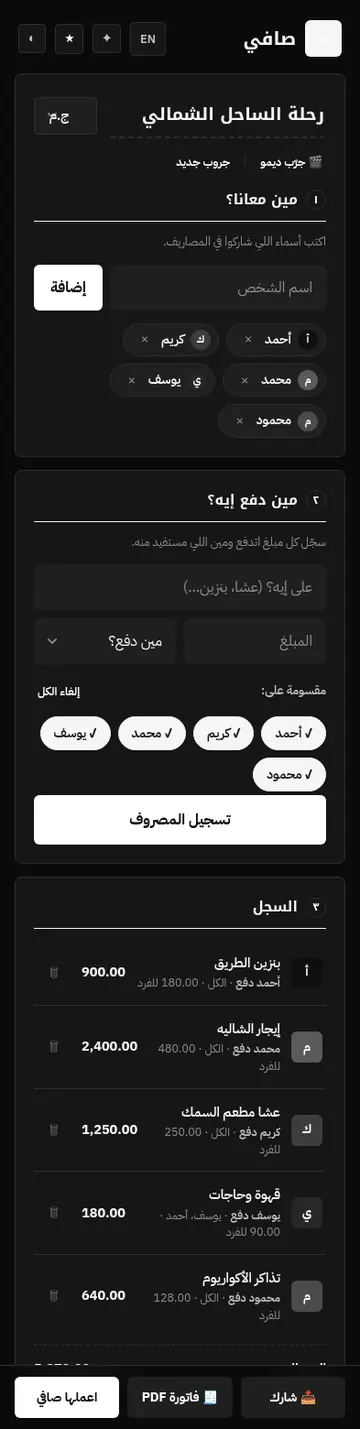
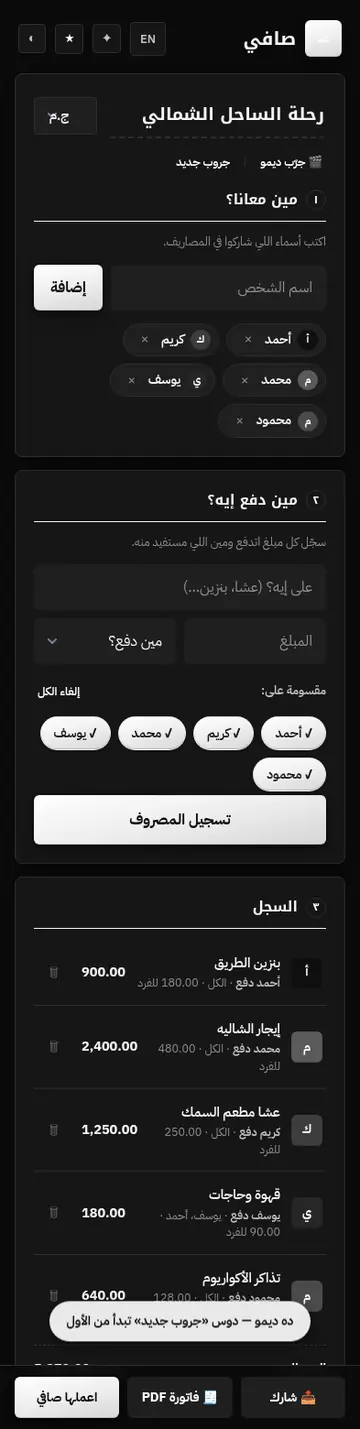
Give the عربي skin depth: gradient ink and soft shadows
A flat black rectangle reads as a hole punched in the page. Every large
ink fill — buttons, the logo tile, active split chips, the «عليه» pill —
now carries a subtle gradient plus a one-pixel top highlight, which is the
difference between a black box and a black surface. Cards get a soft
neutral shadow instead of none.

Both are tokens (--ink-grad, --ink-edge, --btn-shadow) and both invert in
dark mode, where the fills are white and the highlight moves to the bottom
edge so the implied light source stays overhead.

Contrast is unaffected: the lightest stop is #333333, so white on it is
still 12:1.

Changed region(s): [[0.0917, 0.8929, 0.8556, 1.0], [0.5194, 0.5234, 0.9167, 0.6158], [0.1222, 0.1847, 0.275, 0.2155]]

diff --git a/assets/css/skins/arabi.css b/assets/css/skins/arabi.css
@@ -44,9 +44,13 @@
   --display-weight:700;
   --display-spacing:0;
 
-  /* no shadows — depth comes from the hairline alone */
-  --shadow:none;
-  --shadow-lg:0 8px 28px -14px rgba(0,0,0,.45);
+  /* Depth without colour: a soft neutral shadow, and a gradient on the black
+     fills so a large area of ink reads as a surface rather than a hole. */
+  --shadow:0 1px 2px rgba(10,10,10,.05), 0 10px 24px -16px rgba(10,10,10,.35);
+  --shadow-lg:0 4px 10px rgba(10,10,10,.10), 0 26px 50px -24px rgba(10,10,10,.5);
+  --ink-grad:linear-gradient(168deg, #333333 0%, #141414 46%, #050505 100%);
+  --ink-edge:inset 0 1px 0 rgba(255,255,255,.16);
+  --btn-shadow:0 2px 5px rgba(10,10,10,.26), 0 10px 22px -12px rgba(10,10,10,.5);
 
   /* invoice — declared outside the dark blocks: paper is always light */
   --bill-paper:#FFFFFF; --bill-fill:#F4F4F4;
@@ -65,8 +69,11 @@
     --pos:#FFFFFF; --pos-w:#1F1F1F;
     --neg:#0A0A0A; --neg-w:#F5F5F5;
     --logo-a:#FFFFFF; --logo-b:#D8D8D8; --logo-c:#9A9A9A;
-    --shadow:none;
-    --shadow-lg:0 8px 28px -14px rgba(0,0,0,.8);
+    --shadow:0 1px 2px rgba(0,0,0,.5), 0 10px 24px -16px rgba(0,0,0,.8);
+    --shadow-lg:0 4px 12px rgba(0,0,0,.6), 0 26px 50px -24px rgba(0,0,0,.9);
+    --ink-grad:linear-gradient(168deg, #FFFFFF 0%, #EDEDED 52%, #D6D6D6 100%);
+    --ink-edge:inset 0 -1px 0 rgba(0,0,0,.14);
+    --btn-shadow:0 2px 6px rgba(0,0,0,.55), 0 12px 26px -14px rgba(0,0,0,.75);
   }
 }
 :root[data-skin="arabi"][data-theme="dark"]{
@@ -77,18 +84,40 @@
   --pos:#FFFFFF; --pos-w:#1F1F1F;
   --neg:#0A0A0A; --neg-w:#F5F5F5;
   --logo-a:#FFFFFF; --logo-b:#D8D8D8; --logo-c:#9A9A9A;
-  --shadow:none;
-  --shadow-lg:0 8px 28px -14px rgba(0,0,0,.8);
+  --shadow:0 1px 2px rgba(0,0,0,.5), 0 10px 24px -16px rgba(0,0,0,.8);
+  --shadow-lg:0 4px 12px rgba(0,0,0,.6), 0 26px 50px -24px rgba(0,0,0,.9);
+  --ink-grad:linear-gradient(168deg, #FFFFFF 0%, #EDEDED 52%, #D6D6D6 100%);
+  --ink-edge:inset 0 -1px 0 rgba(0,0,0,.14);
+  --btn-shadow:0 2px 6px rgba(0,0,0,.55), 0 12px 26px -14px rgba(0,0,0,.75);
 }
 
 /* ── the little structure tokens cannot express ─────────────────
    Kept deliberately short: the whole point of this skin is that it
    adds nothing. Every rule here removes something. */
 [data-skin="arabi"] .mark{
-  background:var(--ink);
-  box-shadow:none;
+  background:var(--ink-grad);
+  box-shadow:var(--btn-shadow), var(--ink-edge);
   border-radius:var(--r-m);
 }
+
+/* A flat black rectangle reads as a hole punched in the page. The gradient
+   plus a one-pixel top highlight gives it a light source, which is the whole
+   difference between "black box" and "black surface". */
+[data-skin="arabi"] .btn{
+  background:var(--ink-grad);
+  box-shadow:var(--btn-shadow), var(--ink-edge);
+}
+[data-skin="arabi"] .btn:hover{
+  background:var(--ink-grad);
+  filter:brightness(1.35);
+}
+[data-skin="arabi"] .btn:active{ box-shadow:var(--ink-edge) }
+/* the soft button keeps the flat wash — it is secondary by design */
+[data-skin="arabi"] .btn-soft{
+  background:var(--accent-w);
+  box-shadow:none;
+}
+[data-skin="arabi"] .btn-soft:hover{ filter:brightness(.96) }
 [data-skin="arabi"] .card > h2{
   padding-bottom:10px;
   margin-bottom:12px;
@@ -105,11 +134,19 @@
 /* the WhatsApp green is a brand cue everywhere else; in a skin whose whole
    premise is two colours it would be the only hue on the page, so this skin
    opts out and keeps the glyph to carry the recognition */
-[data-skin="arabi"] .btn.wa{ background:var(--btn); color:var(--btn-fg) }
-[data-skin="arabi"] .btn.wa:hover{ background:var(--btn-d); filter:none }
+[data-skin="arabi"] .btn.wa{ background:var(--ink-grad); color:var(--btn-fg) }
+[data-skin="arabi"] .btn.wa:hover{ filter:brightness(1.35) }
 
 [data-skin="arabi"] .toggle[aria-pressed="true"]{
-  background:var(--ink);
-  border-color:var(--ink);
+  background:var(--ink-grad);
+  border-color:transparent;
   color:var(--card);
+  box-shadow:0 1px 3px rgba(10,10,10,.3), var(--ink-edge);
 }
+/* the balance pill for «عليه» is a filled ink chip — same treatment */
+[data-skin="arabi"] .v.neg{ background:var(--ink-grad); box-shadow:var(--ink-edge) }
+/* avatars are small ink discs; the gradient keeps them from going matte */
+[data-skin="arabi"] .exp .av,
+[data-skin="arabi"] .bal .av,
+[data-skin="arabi"] .chip .av,
+[data-skin="arabi"] .pay .av{ box-shadow:var(--ink-edge) }
